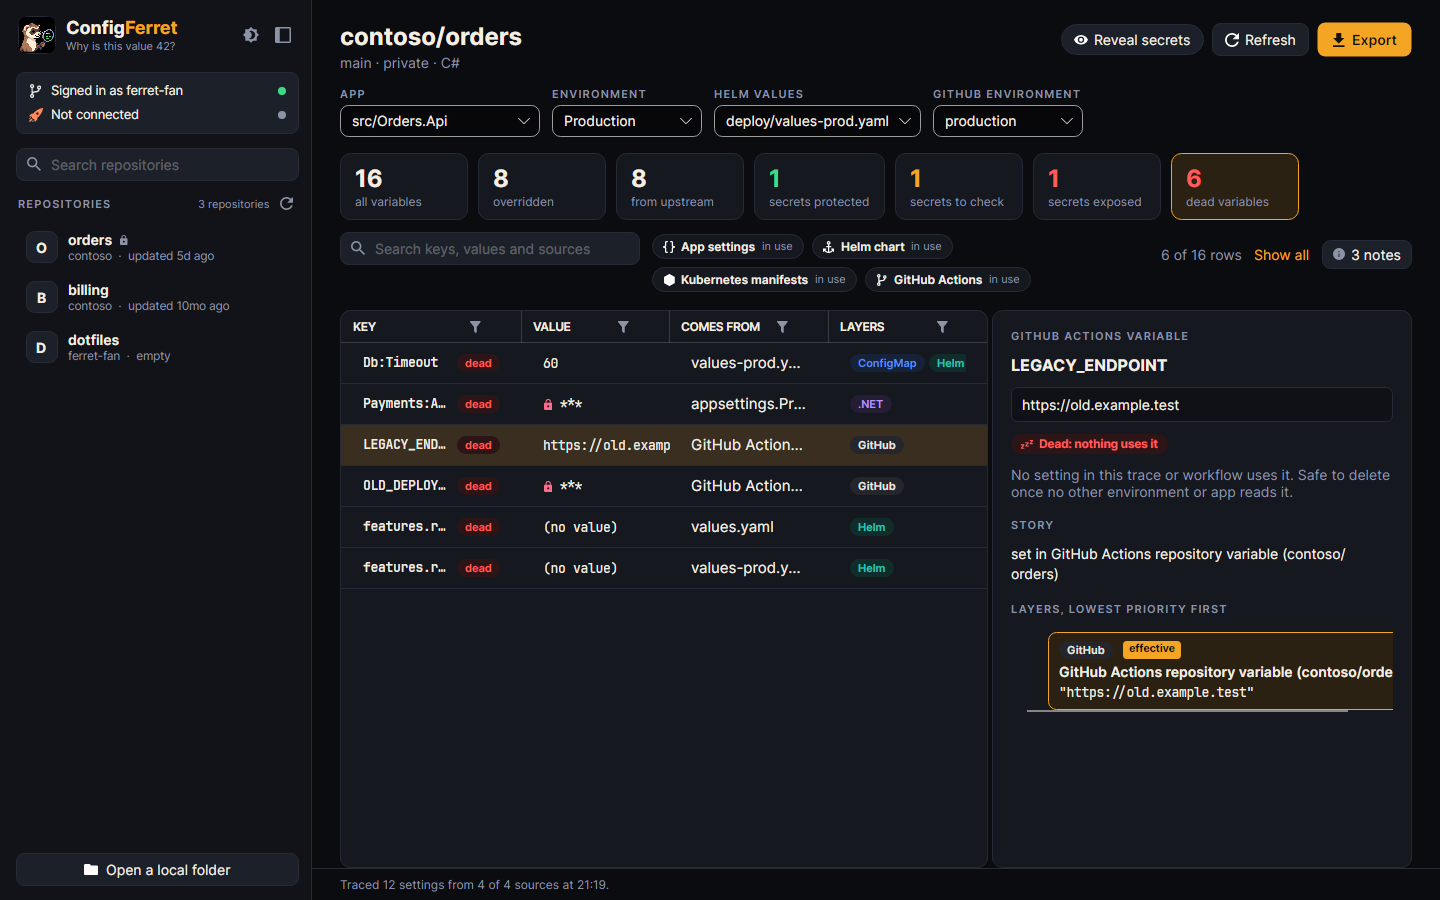
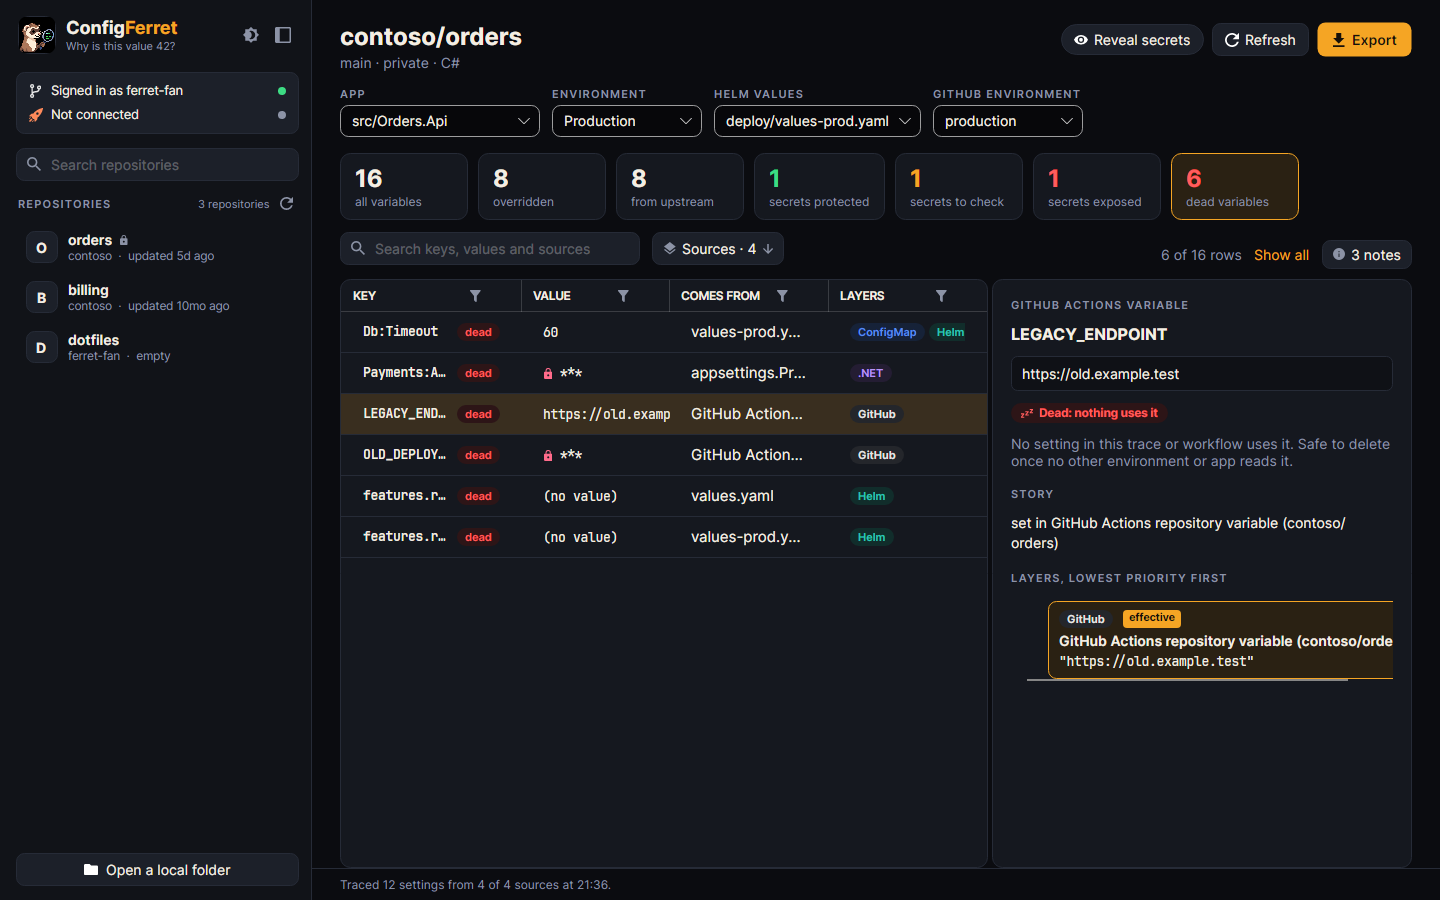
Turn the source chips into a Sources drop-down
The sources the scan found (Helm chart, Kustomize, Kubernetes manifests,
GitHub Actions, Octopus Deploy) are now a drop-down with a checkbox each.
Unticking one traces again without it, and the choice is kept per
repository. App settings are the starting point of a trace and stay on.
Desktop and web.

Claude-Session: https://claude.ai/code/session_013ADYoCp3cBN2uPLo4pv2va

Changed region(s): [[0.2188, 0.2489, 0.9688, 0.8089], [0.375, 0.3111, 0.4062, 0.3733]]

diff --git a/src/ConfigFerret.Web/wwwroot/app.css b/src/ConfigFerret.Web/wwwroot/app.css
@@ -176,9 +176,14 @@ button.tile:hover { background: var(--hover); }
 button.tile.selected { background: var(--accent-soft); border-color: var(--accent); border-top-color: var(--accent); }
 .toolbar { display: flex; flex-wrap: wrap; gap: 8px 12px; align-items: flex-start; margin-bottom: 10px; }
 .toolbar .search.wide { width: 300px; max-width: 100%; height: 36px; box-sizing: border-box; }
-.sources { flex: 1; min-width: 0; display: flex; flex-wrap: wrap; gap: 8px; padding-top: 4px; }
-.source { display: inline-flex; align-items: center; gap: 6px; border: 1px solid var(--border); border-radius: 999px; padding: 3px 10px; background: var(--surface); font-size: 12px; }
-.source.unused { opacity: .55; }
+.sources { flex: 1; min-width: 0; }
+.sources > .subtle { height: 36px; display: inline-flex; align-items: center; gap: 6px; }
+.sources-popover { width: 360px; display: flex; flex-direction: column; gap: 4px; padding: 10px; }
+.source-row { display: grid; grid-template-columns: auto auto minmax(0, 1fr) auto; gap: 8px; align-items: center; padding: 6px; border-radius: 6px; cursor: pointer; }
+.source-row:hover { background: var(--hover); }
+.source-row.fixed { cursor: default; }
+.source-row input { accent-color: var(--accent); margin: 0; }
+.source-text { display: flex; flex-direction: column; min-width: 0; }
 .kind-dotnet { color: var(--k-dotnet); } .kind-k8s { color: var(--k-k8s); } .kind-helm { color: var(--k-helm); } .kind-kustomize { color: var(--k-kustomize); }
 .toolbar-end { display: flex; align-items: center; gap: 12px; padding-top: 4px; }
 .notes-popover { width: 520px; max-width: 80vw; max-height: 420px; overflow-y: auto; padding: 12px; }

diff --git a/src/ConfigFerret.Desktop/ViewModels/MainWindowViewModel.cs b/src/ConfigFerret.Desktop/ViewModels/MainWindowViewModel.cs
@@ -227,7 +227,11 @@ public sealed partial class MainWindowViewModel : ObservableObject, IDisposable
     public partial bool HasResult { get; set; }
 
     /// <summary>What the scan found.</summary>
-    public ObservableCollection<DiscoveryCard> Discoveries { get; } = [];
+    public ObservableCollection<SourceToggle> Discoveries { get; } = [];
+
+    /// <summary>A label for the Sources drop-down, such as "Sources 4 of 5".</summary>
+    [ObservableProperty]
+    public partial string SourcesText { get; set; } = "Sources";
 
     /// <summary>The app folders found.</summary>
     public ObservableCollection<string> Apps { get; } = [];
@@ -904,6 +908,11 @@ public sealed partial class MainWindowViewModel : ObservableObject, IDisposable
         var result = await RunAsync("Tracing the configuration…", async cancellationToken =>
         {
             profile = _analyzer.BuildProfile(scan, choices, connections, notes);
+            foreach (var source in profile.Sources.Where(s => SourceFamily(s) is { } family && choices.TurnedOff.Contains(family, StringComparer.Ordinal)))
+            {
+                source.Enabled = false;
+            }
+
             return await _runner.RunAsync(profile, reveal, cancellationToken).ConfigureAwait(false);
         }).ConfigureAwait(true);
 
@@ -1041,44 +1050,79 @@ public sealed partial class MainWindowViewModel : ObservableObject, IDisposable
             $"Traced {TotalCount} settings from {used} of {result.Sources.Count} sources at {DateTime.Now:t}.{(RevealSecrets ? " Secret values are shown." : string.Empty)}");
     }
 
+    // The kinds of source the Sources drop-down turns on and off. App settings are the trace's starting point, so null.
+    private static string? SourceFamily(SourceSettings source) => source switch
+    {
+        HelmSource => "Helm chart",
+        KustomizeSource => "Kustomize",
+        KubernetesSource => "Kubernetes manifests",
+        GitHubSource => "GitHub Actions",
+        OctopusSource => "Octopus Deploy",
+        _ => null,
+    };
+
     private void ShowDiscoveries(RepositoryScan scan, Profile? profile)
     {
-        var sources = profile?.Sources ?? [];
+        var sources = profile?.Sources.Where(s => s.Enabled).ToList() ?? [];
+        var turnedOff = _currentKey is not null && _workspace.Repositories.TryGetValue(_currentKey, out var choices) ? choices.TurnedOff : [];
         Discoveries.Clear();
-        foreach (var app in scan.Apps)
+        if (scan.Apps.Count > 0)
         {
-            var detail = app.Environments.Count == 0 ? app.RelativePath : $"{app.RelativePath} · {string.Join(", ", app.Environments)}";
-            Discoveries.Add(new DiscoveryCard("dotnet", "IconBraces", "App settings", detail, app.RelativePath == SelectedApp));
+            Discoveries.Add(new SourceToggle("dotnet", "IconBraces", "App settings", string.Join(", ", scan.Apps.Select(a => a.RelativePath)), scan.Apps.Any(a => a.RelativePath == SelectedApp)));
         }
 
-        foreach (var chart in scan.HelmCharts)
+        if (scan.HelmCharts.Count > 0)
         {
-            var detail = chart.ValuesFiles.Count == 0 ? chart.RelativePath : $"{chart.RelativePath} · {chart.ValuesFiles.Count} values files";
-            Discoveries.Add(new DiscoveryCard("helm", "IconAnchor", "Helm chart", detail, sources.OfType<HelmSource>().Any(h => h.ChartFolder == chart.Folder)));
+            Add("helm", "IconAnchor", "Helm chart", string.Join(", ", scan.HelmCharts.Select(c => c.RelativePath)), sources.OfType<HelmSource>().Any());
         }
 
-        foreach (var kustomization in scan.Kustomizations)
+        if (scan.Kustomizations.Count > 0)
         {
-            Discoveries.Add(new DiscoveryCard("kustomize", "IconLayers", "Kustomize", kustomization, sources.OfType<KustomizeSource>().Any(k => k.Folder == scan.Full(kustomization))));
+            Add("kustomize", "IconLayers", "Kustomize", string.Join(", ", scan.Kustomizations), sources.OfType<KustomizeSource>().Any());
         }
 
         if (scan.Manifests.Count > 0)
         {
-            Discoveries.Add(new DiscoveryCard("k8s", "IconHexagon", "Kubernetes manifests", scan.Manifests.Count == 1 ? scan.Manifests[0] : $"{scan.Manifests.Count} files", sources.OfType<KubernetesSource>().Any(k => k.Name == "Kubernetes manifests")));
+            Add("k8s", "IconHexagon", "Kubernetes manifests", scan.Manifests.Count == 1 ? scan.Manifests[0] : $"{scan.Manifests.Count} files", sources.OfType<KubernetesSource>().Any());
         }
 
         if (scan.Workflows.Count > 0 || IsGitHubSubject)
         {
             var detail = scan.Workflows.Count == 0 ? "Repository variables and secrets" : scan.Workflows.Count == 1 ? "Variables, secrets and 1 workflow" : $"Variables, secrets and {scan.Workflows.Count} workflows";
-            Discoveries.Add(new DiscoveryCard("github", "IconBranch", "GitHub Actions", detail, sources.OfType<GitHubSource>().Any()));
+            Add("github", "IconBranch", "GitHub Actions", detail, sources.OfType<GitHubSource>().Any());
         }
 
         var octopus = sources.OfType<OctopusSource>().FirstOrDefault();
-        if (octopus is not null || scan.HasOctopusConfigAsCode)
+        if (octopus is not null || scan.HasOctopusConfigAsCode || turnedOff.Contains("Octopus Deploy", StringComparer.Ordinal))
         {
-            var detail = octopus is not null ? $"Project {octopus.Project}" : "Config as code found; connect Octopus to read the variables";
-            Discoveries.Add(new DiscoveryCard("octopus", "IconRocket", "Octopus Deploy", detail, octopus is not null));
+            var detail = octopus is not null ? $"Project {octopus.Project}" : scan.HasOctopusConfigAsCode && !IsOctopusConnected ? "Config as code found; connect Octopus to read the variables" : "Octopus project variables";
+            Add("octopus", "IconRocket", "Octopus Deploy", detail, octopus is not null);
         }
+
+        var on = Discoveries.Count(d => d.IsOn);
+        SourcesText = on == Discoveries.Count
+            ? string.Create(CultureInfo.CurrentCulture, $"Sources · {Discoveries.Count}")
+            : string.Create(CultureInfo.CurrentCulture, $"Sources · {on} of {Discoveries.Count}");
+
+        void Add(string css, string icon, string title, string detail, bool used) =>
+            Discoveries.Add(new SourceToggle(css, icon, title, detail, used, !turnedOff.Contains(title, StringComparer.Ordinal), OnSourceToggled));
+    }
+
+    // Turning a source on or off saves the choice for this repository and traces again.
+    private void OnSourceToggled(SourceToggle toggle)
+    {
+        if (_currentKey is null || !_workspace.Repositories.TryGetValue(_currentKey, out var choices))
+        {
+            return;
+        }
+
+        choices.TurnedOff.Remove(toggle.Title);
+        if (!toggle.IsOn)
+        {
+            choices.TurnedOff.Add(toggle.Title);
+        }
+
+        RetraceOnChoice();
     }
 
     private void ClearResult()

diff --git a/src/ConfigFerret.Desktop/ViewModels/Rows.cs b/src/ConfigFerret.Desktop/ViewModels/Rows.cs
@@ -51,16 +51,62 @@ public sealed class RepositoryRow(RepositoryInfo info)
         : $"{(int)(span.TotalDays / 365)}y ago";
 }
 
-/// <summary>Something the scan found in the repository, shown as a chip above the table.</summary>
-/// <param name="Css">The style class that colours the card's icon.</param>
-/// <param name="Icon">The icon resource key.</param>
-/// <param name="Title">What it is, for example "Helm chart".</param>
-/// <param name="Detail">Where, for example deploy/chart.</param>
-/// <param name="Used">True when the current trace uses it.</param>
-public sealed record DiscoveryCard(string Css, string Icon, string Title, string Detail, bool Used)
+/// <summary>
+/// A kind of configuration source the scan found in the repository, such as a Helm chart, in the Sources drop-down.
+/// Turning one off traces again without it. App settings are the starting point of a trace and stay on.
+/// </summary>
+public sealed partial class SourceToggle : CommunityToolkit.Mvvm.ComponentModel.ObservableObject
 {
-    /// <summary>"in use" or "found".</summary>
-    public string State => Used ? "in use" : "found";
+    private readonly Action<SourceToggle>? _changed;
+
+    /// <summary>Creates the entry.</summary>
+    /// <param name="css">The style class that colours its icon.</param>
+    /// <param name="icon">The icon resource key.</param>
+    /// <param name="title">What it is, for example "Helm chart".</param>
+    /// <param name="detail">Where, for example deploy/chart.</param>
+    /// <param name="used">True when the current trace uses it.</param>
+    /// <param name="isOn">False when the user turned it off.</param>
+    /// <param name="changed">Called when it is turned on or off; null when it can't be turned off.</param>
+    public SourceToggle(string css, string icon, string title, string detail, bool used, bool isOn = true, Action<SourceToggle>? changed = null)
+    {
+        Css = css;
+        Icon = icon;
+        Title = title;
+        Detail = detail;
+        Used = used;
+        IsOn = isOn;
+
+        // Set after IsOn, so building the entry doesn't count as turning it on.
+        _changed = changed;
+    }
+
+    /// <summary>The style class that colours its icon.</summary>
+    public string Css { get; }
+
+    /// <summary>The icon resource key.</summary>
+    public string Icon { get; }
+
+    /// <summary>What it is, for example "Helm chart".</summary>
+    public string Title { get; }
+
+    /// <summary>Where, for example deploy/chart.</summary>
+    public string Detail { get; }
+
+    /// <summary>True when the current trace uses it.</summary>
+    public bool Used { get; }
+
+    /// <summary>True when it can be turned off. App settings can't.</summary>
+    public bool CanToggle => _changed is not null;
+
+    /// <summary>False when the user turned it off, so the trace leaves it out.</summary>
+    [CommunityToolkit.Mvvm.ComponentModel.ObservableProperty]
+    [CommunityToolkit.Mvvm.ComponentModel.NotifyPropertyChangedFor(nameof(State))]
+    public partial bool IsOn { get; set; }
+
+    /// <summary>"in use", "found" or "off".</summary>
+    public string State => !IsOn ? "off" : Used ? "in use" : "found";
+
+    partial void OnIsOnChanged(bool value) => _changed?.Invoke(this);
 }
 
 /// <summary>A row in the secrets audit.</summary>

diff --git a/tests/ConfigFerret.Desktop.Tests/MainWindowTests.cs b/tests/ConfigFerret.Desktop.Tests/MainWindowTests.cs
@@ -25,6 +25,13 @@ public sealed class MainWindowTests : IDisposable
             new RepositoryAnalyzer(render: (_, _) => null),
             Path.Join(_temp.FullName, "downloads"));
 
+    // Turning a source on or off starts a trace; awaiting a second one waits for it (it cancels the first).
+    private static async Task WaitForTraceAsync(MainWindowViewModel viewModel)
+    {
+        await viewModel.RetraceAsync();
+        Dispatcher.UIThread.RunJobs();
+    }
+
     [AvaloniaFact]
     public async Task Signs_in_lists_repositories_and_traces_the_selected_one()
     {
@@ -105,6 +112,20 @@ public sealed class MainWindowTests : IDisposable
         Assert.True(viewModel.KeyFilter.IsSorted);
         viewModel.ClearFiltersCommand.Execute(null);
         Assert.False(viewModel.IsFiltered);
+
+        // Turning a source off in the Sources drop-down traces again without it, and the choice is kept.
+        Assert.False(viewModel.Discoveries.Single(d => d.Title == "App settings").CanToggle);
+        var helm = viewModel.Discoveries.Single(d => d.Title == "Helm chart");
+        Assert.Equal("in use", helm.State);
+        helm.IsOn = false;
+        await WaitForTraceAsync(viewModel);
+        Assert.DoesNotContain(viewModel.Rows.Single(r => r.Key == "Db:Timeout").Kinds, k => k.Kind == LayerKind.Helm);
+        Assert.Equal("off", viewModel.Discoveries.Single(d => d.Title == "Helm chart").State);
+        Assert.Contains("Helm chart", File.ReadAllText(Path.Join(_temp.FullName, "workspace.json")), StringComparison.Ordinal);
+        viewModel.Discoveries.Single(d => d.Title == "Helm chart").IsOn = true;
+        await WaitForTraceAsync(viewModel);
+        timeout = viewModel.Rows.Single(r => r.Key == "Db:Timeout");
+        Assert.Contains(timeout.Kinds, k => k.Kind == LayerKind.Helm);
         Assert.Null(viewModel.SortColumn);
         Assert.Equal(viewModel.RowCount, viewModel.Rows.Count);
 

diff --git a/tests/ConfigFerret.Desktop.Tests/RowsTests.cs b/tests/ConfigFerret.Desktop.Tests/RowsTests.cs
@@ -97,8 +97,10 @@ public class RowsTests
     [Fact]
     public void Discovery_card_state_follows_use()
     {
-        Assert.Equal("in use", new DiscoveryCard("css", "icon", "Helm chart", "deploy/chart", true).State);
-        Assert.Equal("found", new DiscoveryCard("css", "icon", "Helm chart", "deploy/chart", false).State);
+        Assert.Equal("in use", new SourceToggle("css", "icon", "Helm chart", "deploy/chart", true).State);
+        Assert.Equal("found", new SourceToggle("css", "icon", "Helm chart", "deploy/chart", false).State);
+        Assert.Equal("off", new SourceToggle("css", "icon", "Helm chart", "deploy/chart", true, isOn: false, changed: _ => { }).State);
+        Assert.False(new SourceToggle("css", "icon", "App settings", "src/Api", true).CanToggle);
     }
 
     [Theory]

diff --git a/src/ConfigFerret.Desktop/Services/RepositoryAnalyzer.cs b/src/ConfigFerret.Desktop/Services/RepositoryAnalyzer.cs
@@ -31,6 +31,9 @@ public sealed class AnalysisChoices
 
     /// <summary>The Octopus environment, or null to match any.</summary>
     public string? OctopusEnvironment { get; set; }
+
+    /// <summary>The kinds of source turned off in the Sources drop-down, such as "Helm chart". The trace leaves them out.</summary>
+    public List<string> TurnedOff { get; set; } = [];
 }
 
 /// <summary>The account connections a repository analysis can use.</summary>

diff --git a/src/ConfigFerret.Web/Components/Pages/Home.razor.cs b/src/ConfigFerret.Web/Components/Pages/Home.razor.cs
@@ -20,6 +20,7 @@ public sealed partial class Home
     private IJSObjectReference? _shortcuts;
     private bool _exportOpen;
     private bool _notesOpen;
+    private bool _sourcesOpen;
 
     private static readonly Tile[] Tiles =
     [
@@ -111,6 +112,7 @@ public sealed partial class Home
 
         _exportOpen = false;
         _notesOpen = false;
+        _sourcesOpen = false;
         StateHasChanged();
     }
 

diff --git a/src/ConfigFerret.Desktop/README.md b/src/ConfigFerret.Desktop/README.md
@@ -29,7 +29,9 @@ values to show (sections for KEY, sources for COMES FROM, layer kinds for LAYERS
 
 ![The LAYERS column filter: sort, search and a tick list](../../docs/desktop/column-filter.png)
 
-The chips next to the search show what the scan found in the repository, and the notes button lists warnings, source
+The **Sources** drop-down next to the search lists what the scan found in the repository (Helm chart, Kustomize,
+Kubernetes manifests, GitHub Actions, Octopus Deploy). Untick one to trace again without it; the choice is kept per
+repository. App settings are the starting point of a trace and stay on. The notes button lists warnings, source
 problems and what the dead-variable scan read.
 
 A workflow `env:` entry such as `Db__Host: ${{ vars.DB_HOST }}` counts as an environment variable of the app, so
